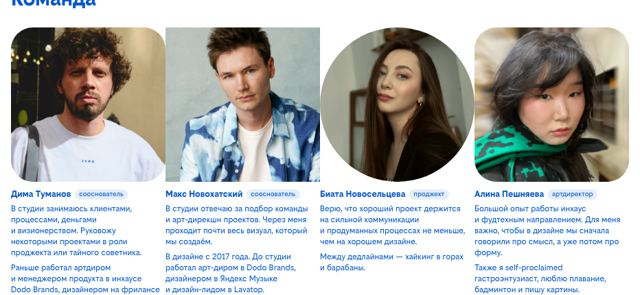
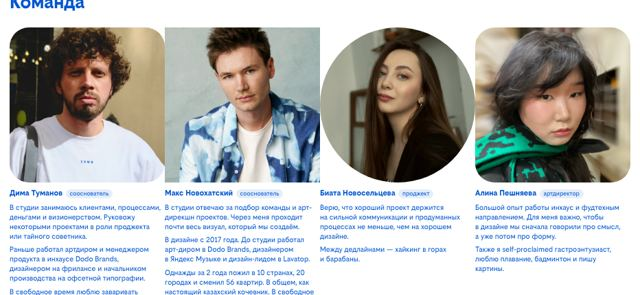
Tablets: no 3x jump in the base size, the header folds up to 1024px (FDS 2.0, step 1)
The base font jumped from 32px at 767 to 11px at 769, and at exactly
768 the phone layout got the desktop size. Now the phone layout stops
growing at 20px (from 469px), the desktop one never drops below 14px,
and the header folds into the burger up to 1024px, where its menu does
not fit next to the logo. 390, 1180 and 1440 are pixel-equal to before;
only widths between 469 and 958 change.

diff --git a/design-system.html b/design-system.html
@@ -486,7 +486,7 @@
                 <table class="ds-table ds-base-table" data-base-table></table>
                 <p class="ds-text"><b>Что сейчас.</b> На 767px база 32px, на 769px уже 11px: текст за два пикселя уменьшается втрое. На iPad mini (744) поэтому огромный текст. На 768px гибрид: мобильная раскладка с десктопной базой (⚠ в таблице). На iPad (820) и телефоне лёжа (932) био команды около 8px.</p>
                 <p class="ds-text"><b>Почему нельзя просто поднять базу.</b> Её держит шапка: логотип растёт от ширины окна, а меню от базы. Если поднять базу до 14px, на 820–932px меню наезжает на логотип. Вариант A поднимает её только до 12.5px, на сколько пускает шапка. Текст на планшетах становится крупнее примерно на 12%.</p>
-                <p class="ds-text"><b>Вариант B, рекомендую.</b> Граница раскладки остаётся 768. На всех ширинах до 1024 шапка складывается в бургер, как на телефоне: у шапки появляется своя граница, потому что меню не помещается. Тогда база на десктопе начинается с 14px, и текст на iPad крупнее нынешнего примерно на четверть. С 1025px шапка обычная и помещается. Обе версии чинят iPad mini и 768px: там мобильная раскладка с базой 20px.</p>
+                <p class="ds-text"><b>Вариант B, выбран и сделан.</b> Граница раскладки остаётся 768. На всех ширинах до 1024 шапка складывается в бургер, как на телефоне: у шапки появляется своя граница, потому что меню не помещается. Тогда базу на десктопе можно не опускать ниже 14px: на iPad (820) текст крупнее нынешнего на 19%. С 959px база точно такая же, как в 1.0, так что ноутбуки и мониторы не меняются вовсе. С 1025px шапка обычная и помещается. Обе версии чинят iPad mini и 768px: там мобильная раскладка с базой 20px.</p>
                 <p class="ds-text">Вариант «до 1024 вся раскладка мобильная» тоже проверен и отброшен. На 932–1024 мобильная вёрстка расползается: строки в вакансиях по 120 знаков, фото команды по 500px. И на 1025px остаётся скачок базы 20 → 15px.</p>
                 <div class="ds-shots">
                 <h4 class="ds-shots-title">744px · iPad mini, вертикально · главная, верх</h4>
@@ -559,12 +559,14 @@
             <section class="ds-section" id="settings">
               <h2>Настройки</h2>
               <p class="ds-text">Шрифт <strong>Sona</strong>, variable 100..900, один файл <code>fonts/Sona.woff2</code>. Плотность <code>--fds-density: 1.3</code> это базовый интерлиньяж, и от неё считаются отступы текста и спейсеры.</p>
-              <p class="ds-text">Размер шрифта у <code>html</code> резиновый. От 320 до 768px он растёт с 14 до 32px, на 768px падает до 11px и растёт до 22.5px к 1500px, дальше не меняется. Всё остальное в системе задано в <code>em</code> от этого значения, поэтому страница масштабируется целиком. Это единственное место с пикселями.</p>
-              <pre class="ds-code">--fds-font-min-mobile: 14;   --fds-font-max-mobile: 32;
---fds-font-min-desktop: 11;  --fds-font-max-desktop: 22.5;
---fds-viewport-min: 320;     --fds-breakpoint: 768;     --fds-viewport-max: 1500;</pre>
-              <p class="ds-text">Устройств два. Мобила это <code>width &lt;= 768px</code>, десктоп всё, что шире. В коде брейкпоинт записывается только так, и он один:</p>
+              <p class="ds-text">Размер шрифта у <code>html</code>, база, резиновый. В мобильной раскладке он растёт с 14px на 320px и останавливается на 20px (с 469px), чтобы планшет в мобильной раскладке не получал гигантский текст. В десктопной растёт с 11px на 768px до 22.5px на 1500px и дальше не меняется, но никогда не бывает меньше 14px: так планшеты и телефоны в горизонтали остаются читаемыми. Всё остальное в системе задано в <code>em</code> и <code>rem</code> от базы, поэтому страница масштабируется целиком. Это единственное место с пикселями.</p>
+              <pre class="ds-code">font-size: clamp(14px, calc(14px + 18 * (100vw - 320px) / 448), 20px);
+@media (width &gt; 768px) {
+  font-size: clamp(14px, calc(11px + 11.5 * (100vw - 768px) / 732), 22.5px);
+}</pre>
+              <p class="ds-text">Раскладки две. Мобила это <code>width &lt;= 768px</code>, десктоп всё, что шире. В коде граница записывается только так:</p>
               <pre class="ds-code">@media (width &lt;= 768px) { … }</pre>
+              <p class="ds-text">Своя граница есть только у шапки: до 1024px она складывается в бургер, потому что меню не помещается рядом с логотипом. Это свойство компонента, оно описано в шапке и в <code>js/header-scroll.js</code>.</p>
             </section>
 
             <!-- ============================================================ -->
@@ -1094,8 +1096,8 @@
         var ramp = function (w, w0, w1, v0, v1) { return w <= w0 ? v0 : w >= w1 ? v1 : v0 + (v1 - v0) * (w - w0) / (w1 - w0); };
         var variants = [
           { key: 'now', base: function (w) { return w < 768 ? ramp(w, 320, 768, 14, 32) : ramp(w, 768, 1500, 11, 22.5); } },
-          { key: 'a', base: function (w) { return w <= 768 ? ramp(w, 320, 480, 14, 20) : ramp(w, 768, 1500, 12.5, 22.5); } },
-          { key: 'b', base: function (w) { return w <= 768 ? ramp(w, 320, 480, 14, 20) : ramp(w, 768, 1500, 14, 22.5); } }
+          { key: 'a', base: function (w) { return w <= 768 ? Math.min(20, ramp(w, 320, 768, 14, 32)) : ramp(w, 768, 1500, 12.5, 22.5); } },
+          { key: 'b', base: function (w) { return w <= 768 ? Math.min(20, ramp(w, 320, 768, 14, 32)) : Math.max(14, ramp(w, 768, 1500, 11, 22.5)); } }
         ];
         var devices = [[390, 'iPhone'], [744, 'iPad mini'], [820, 'iPad'], [932, 'телефон лёжа'], [1180, 'iPad лёжа'], [1440, 'ноутбук'], [1920, 'монитор']];
         var x = function (w) { return L + Math.log(w / X0) / Math.log(X1 / X0) * (W - L - R); };

diff --git a/css/fds-settings.css b/css/fds-settings.css
@@ -31,43 +31,18 @@ body {
   line-height: var(--fds-density);
 }
 
+/*
+ * Base size. Everything is in em/rem of it, so the page scales as a whole.
+ * Phone layout: 14px at 320, growing as in 1.0 but held at 20px from 469px,
+ * so a tablet in the phone layout gets no giant text. Desktop layout: 11px
+ * at 768 to 22.5px at 1500 as in 1.0, but never below 14px, so tablets and
+ * phones held sideways stay readable; from 959px on nothing changed.
+ */
 html {
-  --fds-font-min-mobile: 14;
-  --fds-font-max-mobile: 32;
+  font-size: clamp(14px, calc(14px + 18 * (100vw - 320px) / 448), 20px);
 
-  --fds-font-min-desktop: 11;
-  --fds-font-max-desktop: 22.5;
-
-  --fds-viewport-min: 320;
-  --fds-breakpoint: 768;
-  --fds-viewport-max: 1500;
-
-  font-size: calc(var(--fds-font-min-mobile) * 1px);
-
-  @media (width >= 320px) {
-    font-size: calc(
-      var(--fds-font-min-mobile) * 1px +
-        (var(--fds-font-max-mobile) - var(--fds-font-min-mobile)) *
-        (
-          (100vw - var(--fds-viewport-min) * 1px) /
-            (var(--fds-breakpoint) - var(--fds-viewport-min))
-        )
-    );
-  }
-
-  @media (width >= 768px) {
-    font-size: calc(
-      var(--fds-font-min-desktop) * 1px +
-        (var(--fds-font-max-desktop) - var(--fds-font-min-desktop)) *
-        (
-          (100vw - var(--fds-breakpoint) * 1px) /
-            (var(--fds-viewport-max) - var(--fds-breakpoint))
-        )
-    );
-  }
-
-  @media (width >= 1500px) {
-    font-size: calc(var(--fds-font-max-desktop) * 1px);
+  @media (width > 768px) {
+    font-size: clamp(14px, calc(11px + 11.5 * (100vw - 768px) / 732), 22.5px);
   }
 }
 

diff --git a/css/fds-header.css b/css/fds-header.css
@@ -150,7 +150,12 @@ header.is-hidden {
   color: var(--fds-accent);
 }
 
-@media (width <= 768px) {
+/*
+ * The header folds into the burger up to 1024px, its own border apart from
+ * the 768px layout one: below it the menu does not fit next to the logo.
+ * js/header-scroll.js uses the same number.
+ */
+@media (width <= 1024px) {
   body.has-menu-open {
     overflow: hidden;
   }

diff --git a/js/header-scroll.js b/js/header-scroll.js
@@ -3,7 +3,7 @@
 
   var LOGO_MIN_EM = 2;
   var LOGO_SHRINK_DISTANCE = 260;
-  var MOBILE_MAX_WIDTH = 768;
+  var MOBILE_MAX_WIDTH = 1024; // the folded header, see css/fds-header.css
   var LOGO_MARGIN_TOP_START_EM = 0.05;
   var LOGO_MARGIN_TOP_END_EM = 0.2;
   var LOGO_MARGIN_BOTTOM_END_EM = 0.2;
